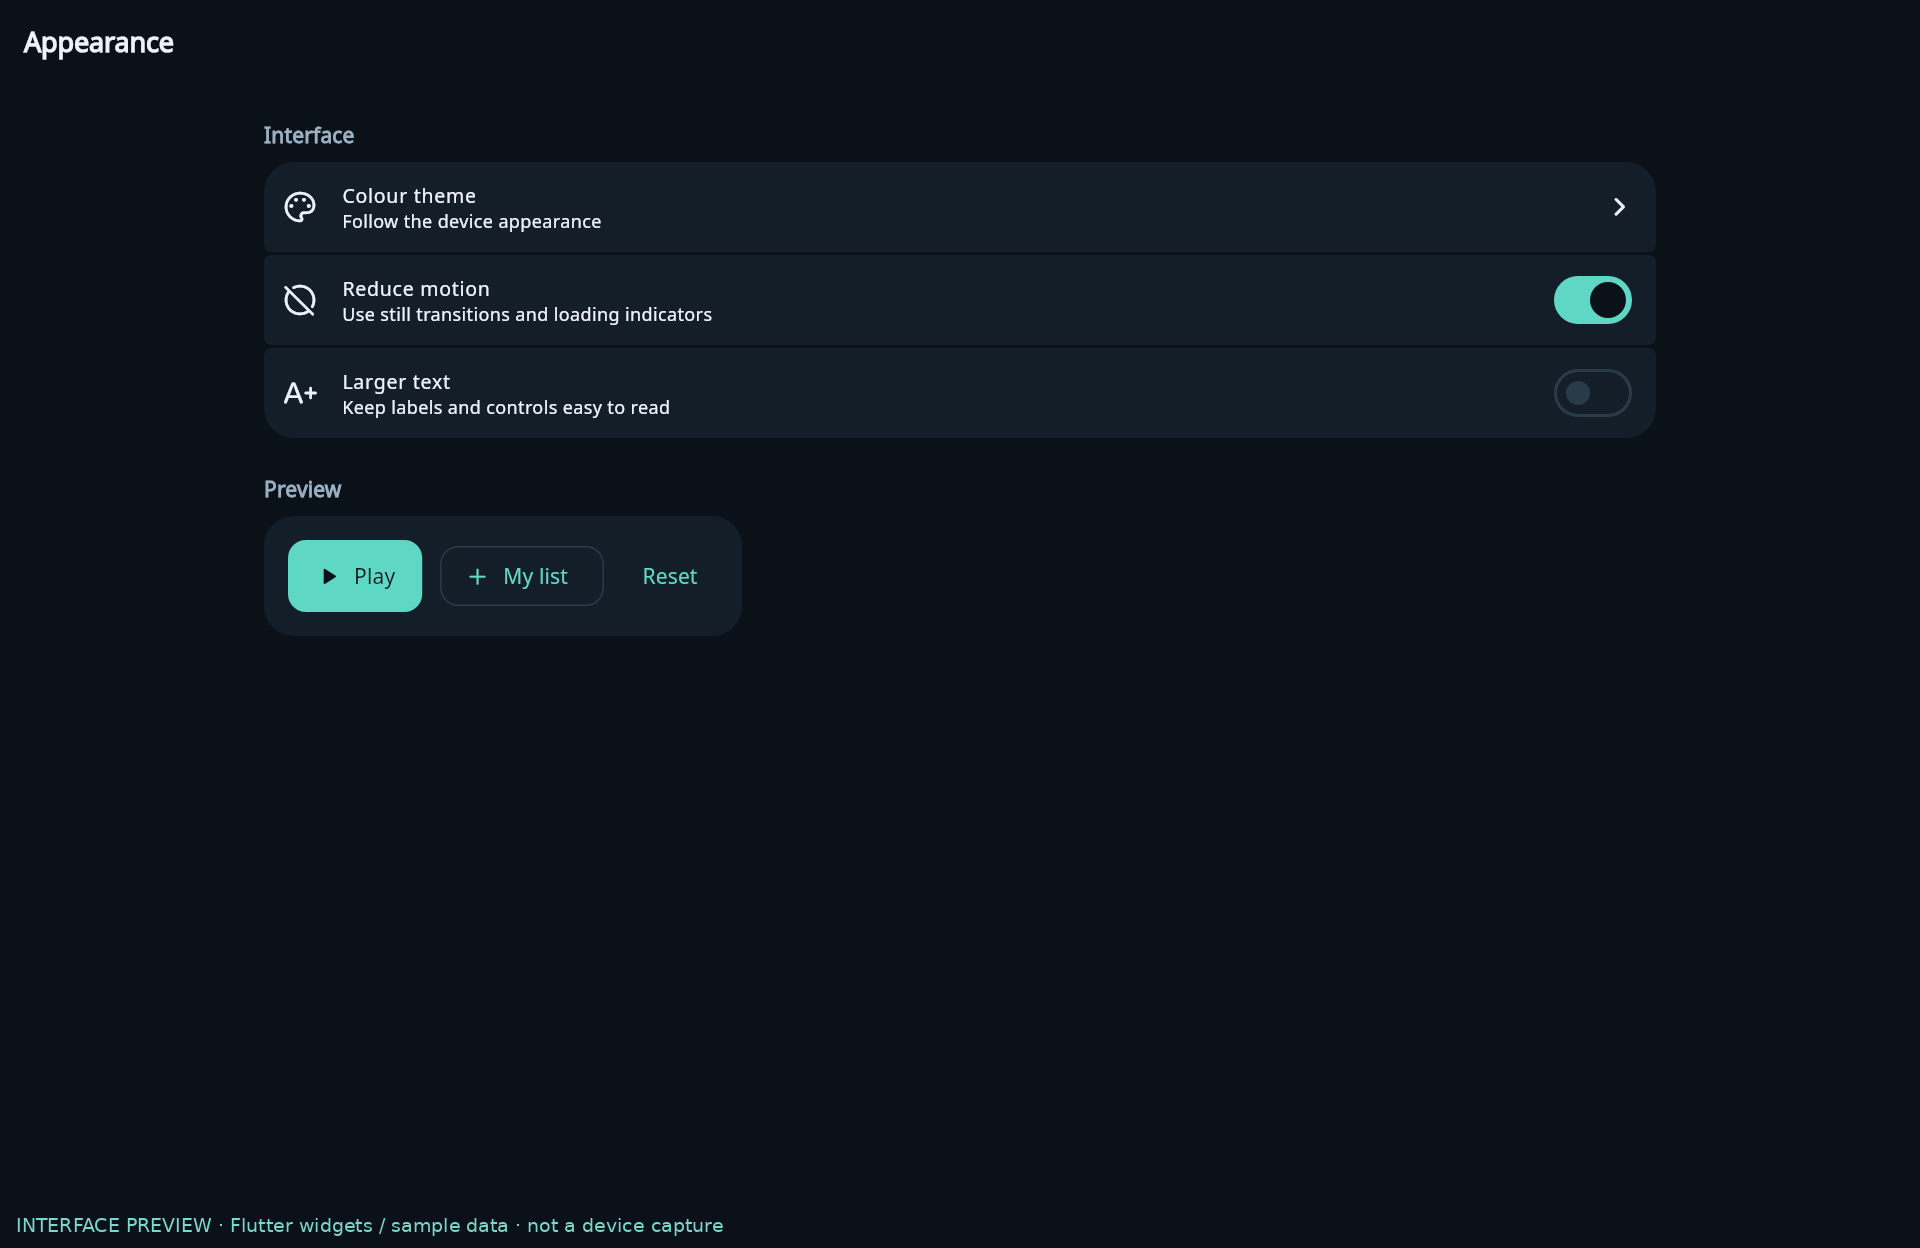
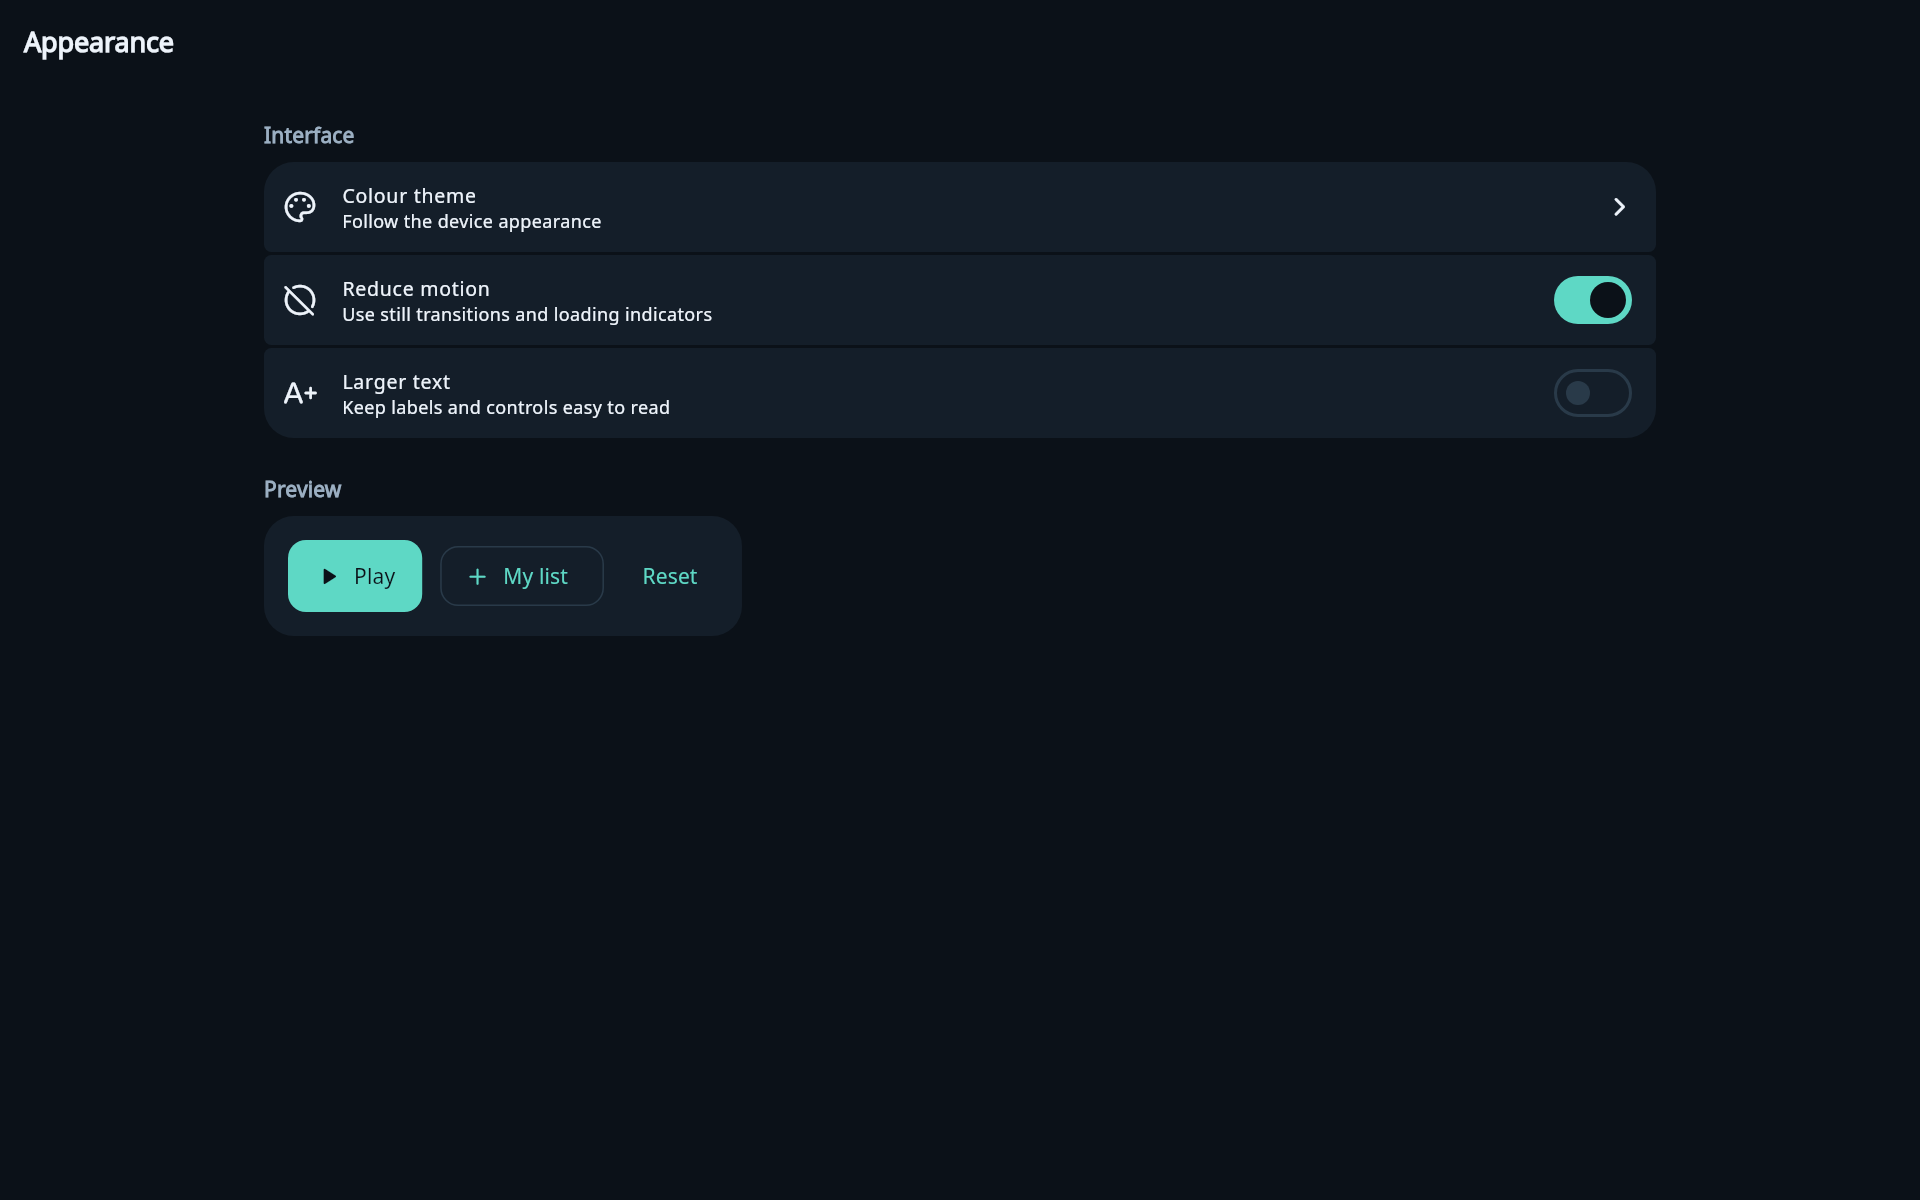
docs: publish clean player and appearance gallery exports

diff --git a/tools/store-assets/test_package_previews.py b/tools/store-assets/test_package_previews.py
@@ -11,7 +11,7 @@ FIXTURE = SCRIPT.parent / 'fixtures/caminandes-frame.jpg'
 
 
 class PreviewPackagingTests(unittest.TestCase):
-    def package(self, image, name):
+    def package(self, image, name, *, presentation=False):
         temporary = tempfile.TemporaryDirectory()
         self.addCleanup(temporary.cleanup)
         root = Path(temporary.name)
@@ -20,7 +20,7 @@ class PreviewPackagingTests(unittest.TestCase):
         image.save(inputs / name)
         output = root / 'output'
         result = subprocess.run([sys.executable, str(SCRIPT), '--input', str(inputs),
-                                 '--output', str(output), '--source-sha', 'a' * 40],
+                                 '--output', str(output), '--source-sha', 'a' * 40] + (['--presentation'] if presentation else []),
                                 capture_output=True, text=True)
         return result, output
 
@@ -42,6 +42,20 @@ class PreviewPackagingTests(unittest.TestCase):
         self.assertEqual(manifest['sample_frame']['license'], 'CC BY-SA 3.0')
         self.assertTrue((output / manifest['sample_frame']['attribution']).is_file())
         self.assertIn('not native playback', (output / 'README.txt').read_text())
+
+    def test_presentation_export_preserves_pixels_and_provenance_without_footer(self):
+        with Image.open(FIXTURE) as source:
+            original = source.convert('RGB')
+            result, output = self.package(original, 'phone-player-mockup-preview.png', presentation=True)
+        self.assertEqual(result.returncode, 0, result.stderr)
+        with Image.open(output / 'phone-player-mockup-preview.png') as exported:
+            self.assertEqual(exported.size, original.size)
+            self.assertEqual(exported.tobytes(), original.tobytes())
+        manifest = json.loads((output / 'manifest.json').read_text())
+        self.assertFalse(manifest['visible_labels'])
+        self.assertFalse(manifest['video_decoding_performed'])
+        self.assertFalse(manifest['store_upload_eligible'])
+        self.assertTrue((output / 'ATTRIBUTION.md').exists())
 
     def test_non_video_panel_can_have_an_intentionally_plain_background(self):
         result, output = self.package(Image.new('RGB', (800, 450), '#0b1118'),

diff --git a/tools/store-assets/README.md b/tools/store-assets/README.md
@@ -18,7 +18,7 @@ opaque. The exported sets include provenance and a ZIP for manual console upload
 The opt-in harness also renders subtitle styling sheets and light/dark/OLED
 appearance variants. These use production widgets with simulated state, not a
 native video decoder. Prefer a visible video frame and controls captured from the running packaged
-app; if unavailable, use a visibly labeled mockup and record the capture limit. Blank player
+app; if unavailable, retain the rendering method and capture limit in the manifest. Blank player
 fixtures are layout tests and must not be presented as playback screenshots.
 
 To render only the appearance variants, add `--name
@@ -27,7 +27,7 @@ in a separate output directory so earlier manifests retain their original source
 revision. The contact sheet includes every supplied scene.
 
 `player_mockup.dart` composes production player controls over an attributed
-Caminandes still, with a visible **PLAYER UI MOCKUP** label. It uses simulated
+Caminandes still. It uses simulated
 state and never starts a decoder. Run only these with `--name 'preview.*mockup'`;
 inspect both the video area and control legibility before updating README assets.
 The fixture's [attribution and image license](fixtures/README.md) travel with the

diff --git a/docs/maintainers/player-mockups/ATTRIBUTION.md b/docs/maintainers/player-mockups/ATTRIBUTION.md
@@ -5,10 +5,9 @@
 
 Source: [Wikimedia Commons original video](https://commons.wikimedia.org/wiki/File:Caminandes,_Gran_Dillama_-_Blender_Foundation.webm).
 License: [Creative Commons Attribution-ShareAlike 3.0](https://creativecommons.org/licenses/by-sa/3.0/).
-The extracted JPEG and rendered player mockup images incorporating it are
+The extracted JPEG and rendered player-control images incorporating it are
 provided under the same CC BY-SA 3.0 license. Changes: one frame extracted with
 FFmpeg, JPEG compression, viewport fitting, dark gradient, and UI overlay.
 This does not imply endorsement by Blender Foundation.
 
-This is a still-image fixture, not an app playback capture or decoder test.
-Keep the rendered outputs visibly marked **PLAYER UI MOCKUP**.
+The source frame is extracted at 00:30.

diff --git a/README.md b/README.md
@@ -157,7 +157,7 @@ Actual signed-app emulator captures with [build provenance](docs/maintainers/sto
 </details>
 
 [Subtitle and appearance variants](docs/maintainers/playback-appearance-previews/contact-sheet.jpg)
-· [Image credits](docs/maintainers/player-mockups/README.txt)
+· [Image credits](docs/maintainers/player-mockups/ATTRIBUTION.md)
 
 ## Dolby Vision experiments
 
